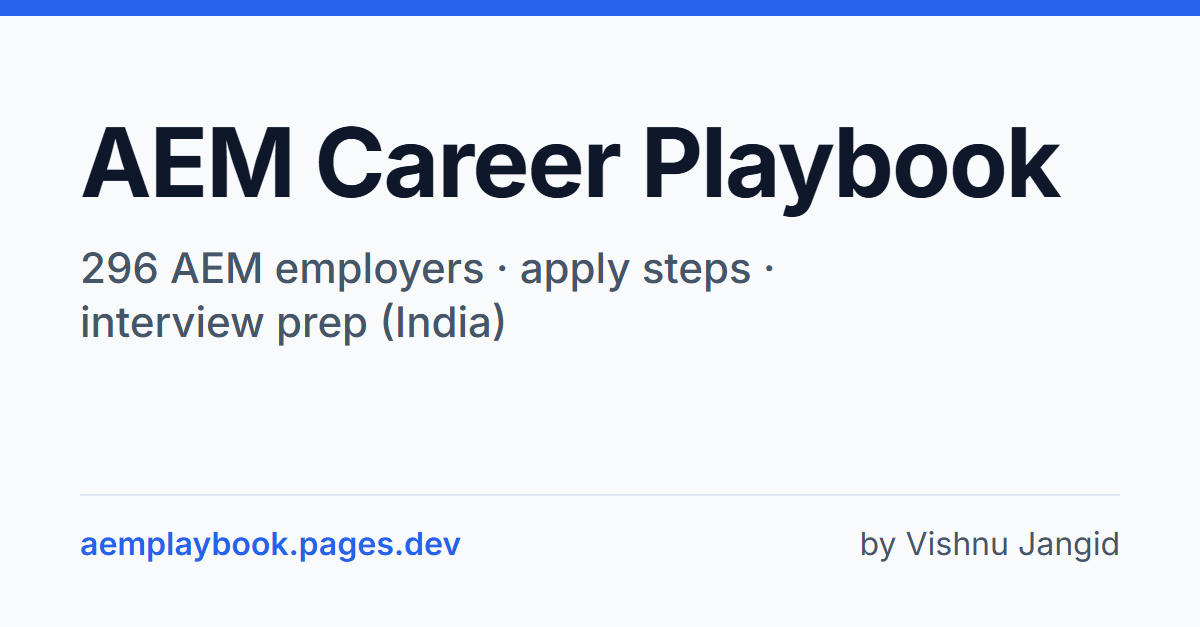
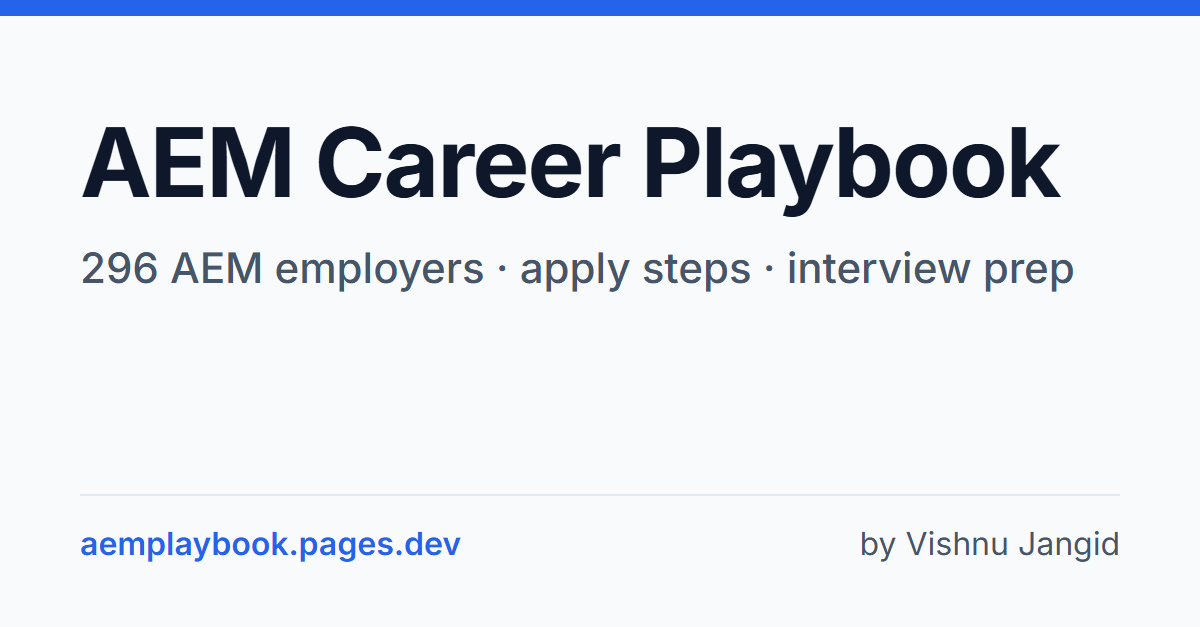
og: drop India from share card text and alt
- Card tagline and ogImageAlt no longer say "(India)" / "for India"; the playbook covers employers outside India.
- Regenerated assets/og/og-image.png; prerendered index.html.

Changed region(s): [[0.0617, 0.4848, 0.4317, 0.5455], [0.6475, 0.3939, 0.8942, 0.4545]]

diff --git a/index.html b/index.html
@@ -18,9 +18,9 @@
   <meta property="og:image" content="https://aemplaybook.pages.dev/assets/og/og-image.png" />
   <meta property="og:image:width" content="1200" />
   <meta property="og:image:height" content="627" />
-  <meta property="og:image:alt" content="AEM Career Playbook — 296 AEM employers, apply steps and interview prep for India. aemplaybook.pages.dev, by Vishnu Jangid." />
+  <meta property="og:image:alt" content="AEM Career Playbook — 296 AEM employers, apply steps and interview prep. aemplaybook.pages.dev, by Vishnu Jangid." />
   <meta name="twitter:image" content="https://aemplaybook.pages.dev/assets/og/og-image.png" />
-  <meta name="twitter:image:alt" content="AEM Career Playbook — 296 AEM employers, apply steps and interview prep for India. aemplaybook.pages.dev, by Vishnu Jangid." /><!-- PRERENDER:END:seo-meta -->
+  <meta name="twitter:image:alt" content="AEM Career Playbook — 296 AEM employers, apply steps and interview prep. aemplaybook.pages.dev, by Vishnu Jangid." /><!-- PRERENDER:END:seo-meta -->
   <meta name="robots" content="index, follow" />
   <!-- PRERENDER:START:canonical --><link rel="canonical" href="https://aemplaybook.pages.dev/" /><!-- PRERENDER:END:canonical -->
   <!-- PRERENDER:START:json-ld --><script type="application/ld+json" id="site-json-ld">{"@context":"https://schema.org","@type":"WebSite","name":"AEM Career Playbook","description":"AEM employers in India, apply steps (LinkedIn, Naukri, referrals), learning paths, and interview prep.","url":"https://aemplaybook.pages.dev/","potentialAction":{"@type":"SearchAction","target":"https://aemplaybook.pages.dev/?q={search_term_string}","query-input":"required name=search_term_string"}}</script><!-- PRERENDER:END:json-ld -->

diff --git a/.playbook/13_CHANGELOG.md b/.playbook/13_CHANGELOG.md
@@ -4,6 +4,13 @@ Format loosely follows [Keep a Changelog](https://keepachangelog.com/). Entries 
 by version number while the project is pre-release. Never delete an entry — if something is reversed, add a new
 entry noting the reversal.
 
+## Unreleased — share card wording
+
+### Changed
+
+- Link-preview card (og:image) and its alt text no longer say "(India)" / "for India", since the playbook covers
+  employers outside India too. Image regenerated with `node scripts/build-og-image.mjs`.
+
 ## Unreleased — company data refresh, all priorities
 
 ### Changed
